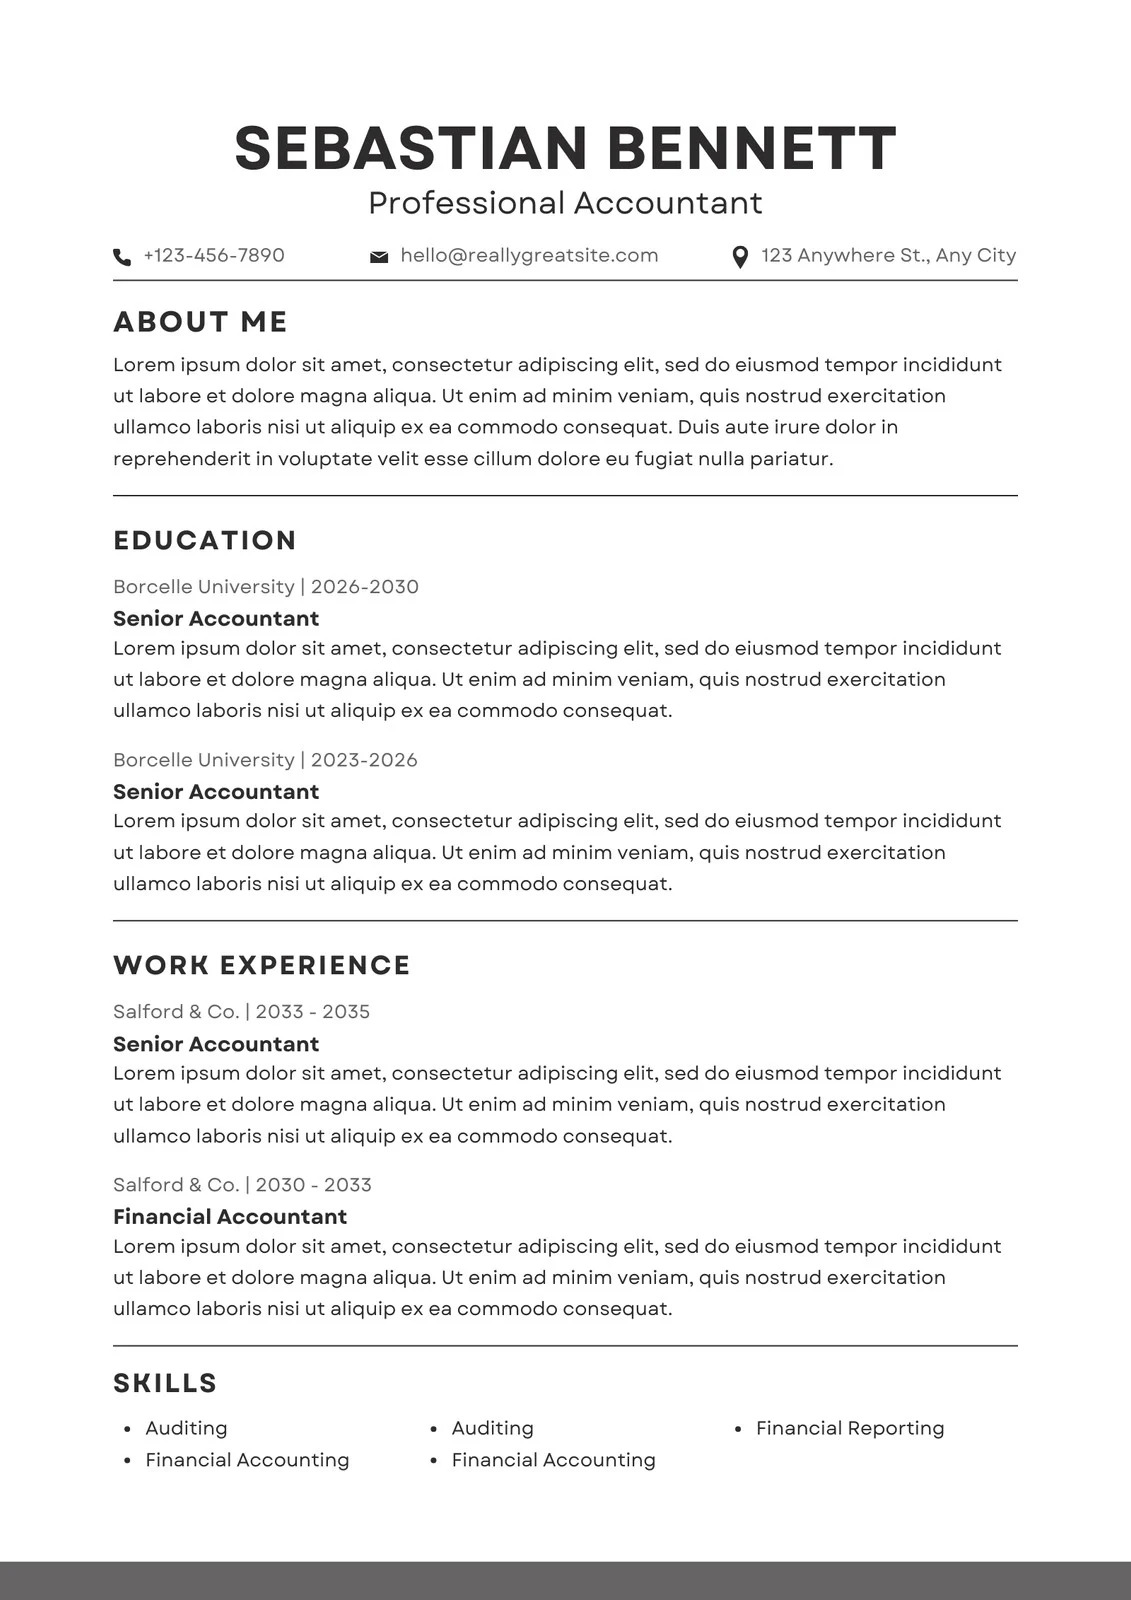
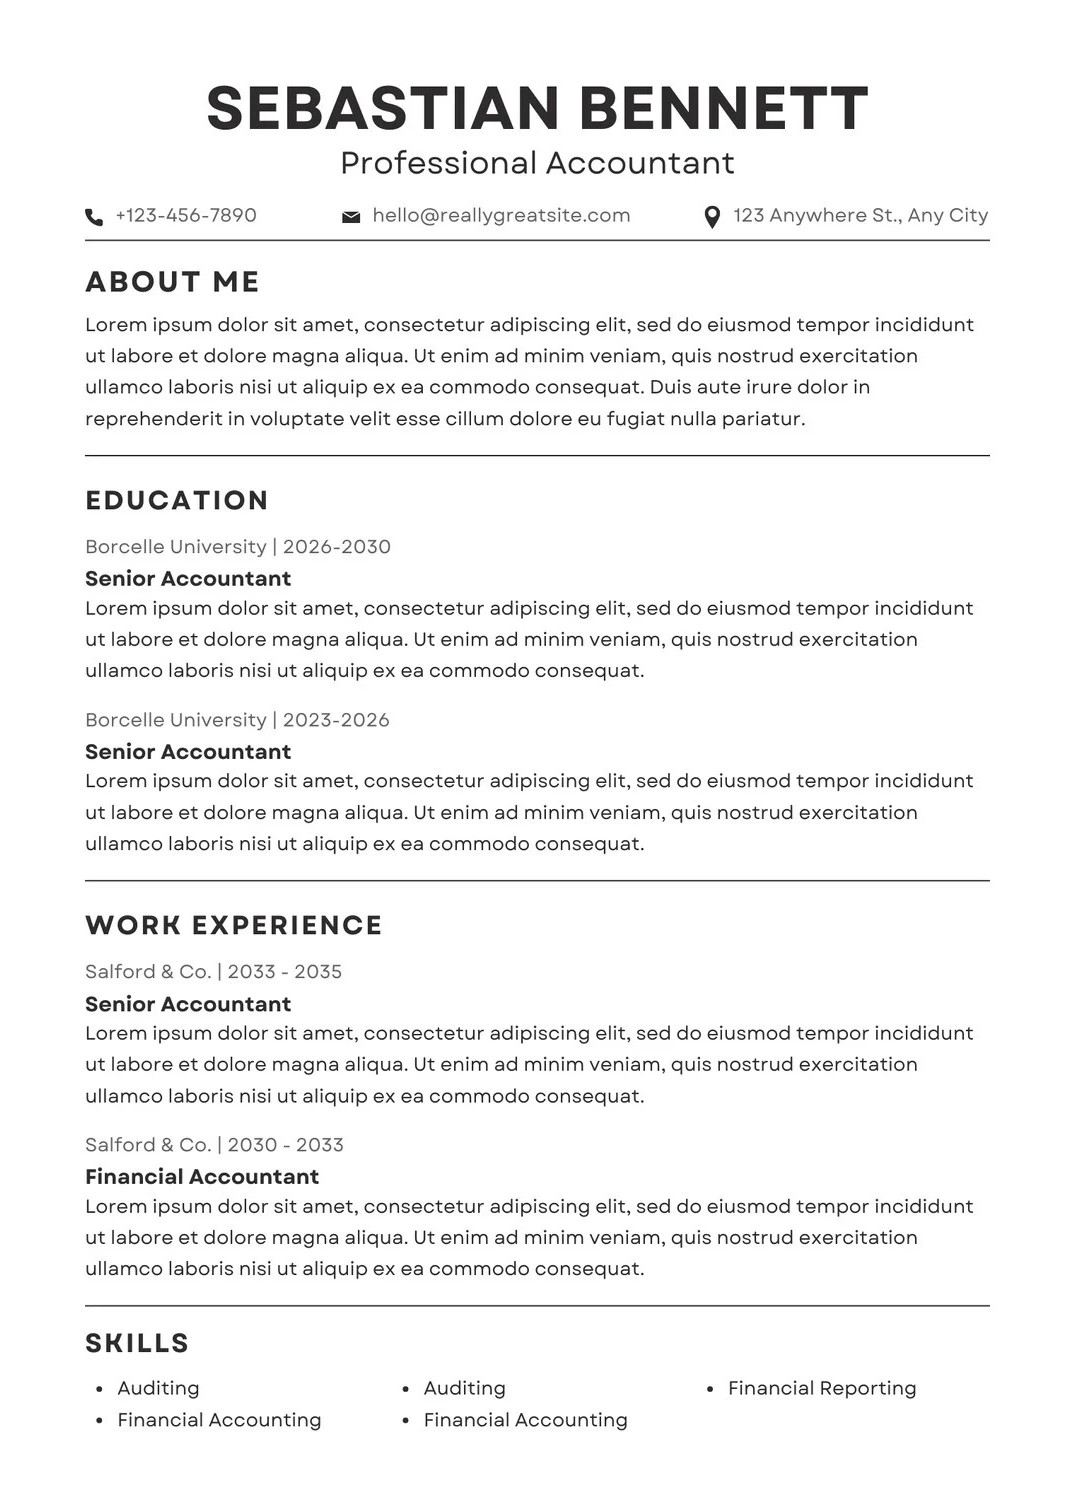
template section Complete

Changed region(s): [[0.0, 0.0307, 1.0, 1.0]]

diff --git a/client/components/Home/Header.tsx b/client/components/Home/Header.tsx
@@ -1,52 +1,96 @@
-'use client';
-import Image from 'next/image';
-import Link from 'next/link';
-import { quicksand } from '@/fonts/Fonts';
-import { Button } from '../ui/button';
-import { ArrowRightCircleIcon } from '@heroicons/react/24/outline';
-import { useState } from 'react';
-import SideBar from './SideBar';
+"use client";
+import Image from "next/image";
+import Link from "next/link";
+import { quicksand } from "@/fonts/Fonts";
+import { Button } from "../ui/button";
+import { ArrowRightCircleIcon } from "@heroicons/react/24/outline";
+import { useState } from "react";
+import SideBar from "./SideBar";
 
 const Header = () => {
-  const [isOpen, setIsOpen] = useState<boolean>(false)
+  const scrollToSection = (id: string) => {
+    const element = document.getElementById(id);
+    if (element) {
+      element.scrollIntoView({ behavior: "smooth" });
+    }
+  };
+  const [isOpen, setIsOpen] = useState<boolean>(false);
   return (
     <>
-    <SideBar isOpen={isOpen} setIsOpen={setIsOpen}/>
-    <header className="flex items-center lg:w-4/5 md:w-3/4 w-full justify-between px-8 py-4 bg-background/80 backdrop-blur-md fixed top-10 rounded-xl border left-1/2 -translate-x-1/2 z-50">
-      <div className="flex items-center">
-        <Image alt="logo" src="/logo.png" width={40} height={50} />
-        <h1 className={`${quicksand.className} text-2xl lg:text-2xl font-bold bg-linear-to-r from-primary to-primary/50 bg-clip-text text-transparent`}>
-          REAI
-        </h1>
-      </div>
+      <SideBar isOpen={isOpen} setIsOpen={setIsOpen} />
+      <header className="flex items-center lg:w-4/5 md:w-3/4 w-full justify-between px-8 py-4 bg-background/80 backdrop-blur-md fixed top-10 rounded-xl border left-1/2 -translate-x-1/2 z-50">
+        <div className="flex items-center">
+          <Image alt="logo" src="/logo.png" width={40} height={50} />
+          <h1
+            className={`${quicksand.className} text-2xl lg:text-2xl font-bold bg-linear-to-r from-primary to-primary/50 bg-clip-text text-transparent`}
+          >
+            REAI
+          </h1>
+        </div>
 
-      <div className="items-center gap-5 hidden lg:flex">
-        <Link href="/docs" className="text-muted hover:text-foreground transition">
+        <div className="items-center gap-5 hidden lg:flex">
+          <p
+            onClick={() => scrollToSection("home")}
+            className="text-muted cursor-pointer hover:text-foreground transition"
+          >
             Home
-        </Link>
-         <Link href="/docs" className="text-muted hover:text-foreground transition">
+          </p>
+          <Link
+            href="/docs"
+            className="text-muted cursor-pointer hover:text-foreground transition"
+          >
             How it Works
-        </Link>
-         <Link href="/docs" className="text-muted hover:text-foreground transition">
+          </Link>
+          <p
+            onClick={() => scrollToSection("templates")}
+            className="text-muted cursor-pointer hover:text-foreground transition"
+          >
             Templates
-        </Link>
-          </div>
-          <div className='flex gap-2 items-center'>
-        <Button className="flex items-center gap-2">
-          Try It <ArrowRightCircleIcon className="w-5 h-5" />
-        </Button>
-        <div className='lg:hidden md:hidden'>
-          { isOpen ?  <p onClick={()=>setIsOpen(false)}><svg xmlns="http://www.w3.org/2000/svg" fill="none" viewBox="0 0 24 24" strokeWidth={1.5} stroke="currentColor" className="size-8">
-            <path strokeLinecap="round" strokeLinejoin="round" d="M6 18 18 6M6 6l12 12" />
-          </svg></p>
-:   <p onClick={()=>setIsOpen(true)}><svg xmlns="http://www.w3.org/2000/svg" fill="none" viewBox="0 0 24 24" strokeWidth={1.5} stroke="currentColor" className="size-8">
-             <path strokeLinecap="round" strokeLinejoin="round" d="M3.75 5.25h16.5m-16.5 4.5h16.5m-16.5 4.5h16.5m-16.5 4.5h16.5" />
-        </svg></p> }
-      
+          </p>
+        </div>
+        <div className="flex gap-2 items-center">
+          <Button className="flex items-center gap-2">
+            Try It <ArrowRightCircleIcon className="w-5 h-5" />
+          </Button>
+          <div className="lg:hidden md:hidden">
+            {isOpen ? (
+              <p onClick={() => setIsOpen(false)}>
+                <svg
+                  xmlns="http://www.w3.org/2000/svg"
+                  fill="none"
+                  viewBox="0 0 24 24"
+                  strokeWidth={1.5}
+                  stroke="currentColor"
+                  className="size-8"
+                >
+                  <path
+                    strokeLinecap="round"
+                    strokeLinejoin="round"
+                    d="M6 18 18 6M6 6l12 12"
+                  />
+                </svg>
+              </p>
+            ) : (
+              <p onClick={() => setIsOpen(true)}>
+                <svg
+                  xmlns="http://www.w3.org/2000/svg"
+                  fill="none"
+                  viewBox="0 0 24 24"
+                  strokeWidth={1.5}
+                  stroke="currentColor"
+                  className="size-8"
+                >
+                  <path
+                    strokeLinecap="round"
+                    strokeLinejoin="round"
+                    d="M3.75 5.25h16.5m-16.5 4.5h16.5m-16.5 4.5h16.5m-16.5 4.5h16.5"
+                  />
+                </svg>
+              </p>
+            )}
           </div>
         </div>
-    
-    </header>
+      </header>
     </>
   );
 };

diff --git a/client/components/Home/Hero.tsx b/client/components/Home/Hero.tsx
@@ -6,6 +6,7 @@ import { Button } from "../ui/button";
 import { ArrowRight } from "lucide-react";
 import { quicksand } from "@/fonts/Fonts";
 import { motion, type Variants } from "framer-motion";
+import GradientShine from "./GradientShine";
 
 const parentVariants: Variants = {
   initial: {
@@ -42,9 +43,32 @@ const Hero = () => {
       initial="initial"
       animate="animate"
       className="min-h-screen flex justify-center items-center"
+      id="home"
     >
       <Card className="border-0 bg-transparent shadow-none items-center">
-        
+        <GradientShine>
+          <motion.div
+            initial={{ opacity: 0, y: 3, width: 0 }}
+            animate={{ opacity: 1, y: 0, width: "auto" }}
+            transition={{ delay: 1, duration: 0.4 }}
+            className="bg-transparent overflow-hidden"
+          >
+            <div
+              className="
+              inline-flex items-center gap-2
+              rounded-full px-4 py-1.5
+              bg-white/10 backdrop-blur-md
+              border border-white/20
+              text-xs uppercase tracking-wider
+              text-white/80
+              shadow-lg whitespace-nowrap
+            "
+            >
+              <span className="h-1.5 w-1.5 rounded-full bg-primary"></span>
+              AI-Powered · ATS-Optimized
+            </div>
+          </motion.div>
+        </GradientShine>
         <motion.div variants={childVariants}>
           <CardTitle className="text-4xl lg:text-6xl text-center uppercase lg:w-200 bg-linear-to-r bg-clip-text text-transparent from-primary to-white md:w-150 font-black">
             Build a Professional Resume with AI
@@ -53,8 +77,8 @@ const Hero = () => {
 
         <motion.div variants={childVariants}>
           <CardDescription className="text-center w-90 text-sm lg:w-120 lg:text-md md:text-md bg-linear-to-r bg-clip-text text-transparent from-white from-20% to-white/50">
-            Enter your details once and generate a clean, ATS-friendly resume instantly.
-            No signup required.
+            Enter your details once and generate a clean, ATS-friendly resume
+            instantly. No signup required.
           </CardDescription>
         </motion.div>
 
@@ -67,7 +91,6 @@ const Hero = () => {
             </Button>
           </CardFooter>
         </motion.div>
-
       </Card>
     </motion.div>
   );

diff --git a/client/components/bg.tsx b/client/components/bg.tsx
@@ -1,7 +1,7 @@
-'use client';
+"use client";
 
-import { useEffect, useRef } from 'react';
-import { motion } from "motion/react"
+import { useEffect, useRef } from "react";
+import { motion } from "motion/react";
 
 export default function VantaDots({ children }: { children: React.ReactNode }) {
   const vantaRef = useRef<HTMLDivElement | null>(null);
@@ -11,11 +11,10 @@ export default function VantaDots({ children }: { children: React.ReactNode }) {
     let DOTS: any;
 
     async function initVanta() {
-      // Only import on client side
-      const THREE = (await import('three')).THREE || (await import('three'));
+      const THREE = (await import("three")).THREE || (await import("three"));
       (window as any).THREE = THREE;
 
-      DOTS = (await import('vanta/dist/vanta.dots.min')).default;
+      DOTS = (await import("vanta/dist/vanta.dots.min")).default;
 
       if (vantaRef.current && !vantaEffect.current) {
         vantaEffect.current = DOTS({
@@ -25,7 +24,7 @@ export default function VantaDots({ children }: { children: React.ReactNode }) {
           minHeight: 200,
           minWidth: 200,
           backgroundColor: 0x1a1a1a,
-          showLines : false
+          showLines: false,
         });
       }
     }
@@ -38,15 +37,23 @@ export default function VantaDots({ children }: { children: React.ReactNode }) {
   }, []);
 
   return (
-    <motion.div 
-    initial={{
-      opacity : 0
-    }}
-    animate={{
-      opacity : 1
-    }}
-    ref={vantaRef} style={{ width: '100%', height: '100vh', position: 'fixed' }}>
-      {children}
-    </motion.div>
+    <>
+      {/* Vanta background */}
+      <motion.div
+        initial={{ opacity: 0 }}
+        animate={{ opacity: 1 }}
+        ref={vantaRef}
+        style={{
+          position: "fixed",
+          top: 0,
+          left: 0,
+          width: "100%",
+          height: "100%",
+        }}
+      />
+
+      {/* Scrollable content */}
+      <div style={{ position: "relative" }}>{children}</div>
+    </>
   );
 }

diff --git a/client/components/Home/Templates.tsx b/client/components/Home/Templates.tsx
@@ -1,0 +1,42 @@
+import React from "react";
+import t1 from "@/public/templates/1.jpg";
+import t2 from "@/public/templates/2.jpg";
+import t4 from "@/public/templates/4.png";
+import t5 from "@/public/templates/5.png";
+import t6 from "@/public/templates/6.png";
+import t7 from "@/public/templates/7.png";
+import Image from "next/image";
+import { cn } from "@/lib/utils";
+
+const templates = [t1, t2, t4, t5, t6, t7];
+
+const Templates = () => {
+  return (
+    <div className="p-6" id="templates">
+      <h1 className="text-4xl font-extrabold mb-20 text-center">
+        Example Templates
+      </h1>
+      <div className="grid grid-cols-2 md:grid-cols-3 gap-4 place-items-center">
+        {templates.map((template, index) => (
+          <div
+            key={index}
+            className={cn(
+              "w-full lg:w-100 lg:h-134 h-64 overflow-hidden rounded-lg shadow-md",
+              index === 6 && "lg:col-span-3 md:col-span-3"
+            )}
+          >
+            <Image
+              width={1080}
+              height={1920}
+              src={template.src || template}
+              alt={`Template ${index + 1}`}
+              className="w-full h-full object-cover hover:scale-105 transition-transform duration-300"
+            />
+          </div>
+        ))}
+      </div>
+    </div>
+  );
+};
+
+export default Templates;

diff --git a/client/components/Home/GradientShine.tsx b/client/components/Home/GradientShine.tsx
@@ -1,0 +1,35 @@
+import { motion } from "motion/react";
+import { ReactNode } from "react";
+
+type Props = {
+  children: ReactNode;
+};
+
+const GradientShine = ({ children }: Props) => {
+  return (
+    <div className="relative overflow-hidden rounded-2xl">
+      {/* Glow sweep */}
+      <motion.div
+        className="
+          absolute inset-0
+          bg-linear-to-r
+          from-transparent
+          via-primary/30
+          to-transparent
+          pointer-events-none
+        "
+        initial={{ x: "-100%" }}
+        animate={{ x: "100%" }}
+        transition={{
+          repeat: Infinity,
+          duration: 4,
+          ease: "linear",
+        }}
+      />
+
+      {children}
+    </div>
+  );
+};
+
+export default GradientShine;

diff --git a/client/app/page.tsx b/client/app/page.tsx
@@ -2,14 +2,16 @@
 import VantaDots from '@/components/bg'
 import Header from '@/components/Home/Header'
 import Hero from '@/components/Home/Hero'
+import Templates from '@/components/Home/Templates'
 import React from 'react'
 
 const page = () => {
   return (
     <VantaDots>
-    <div className='min-h-screen w-full'>
+    <div className='w-full'>
       <Header />
       <Hero />
+      <Templates />
     </div>
     </VantaDots>
   )
